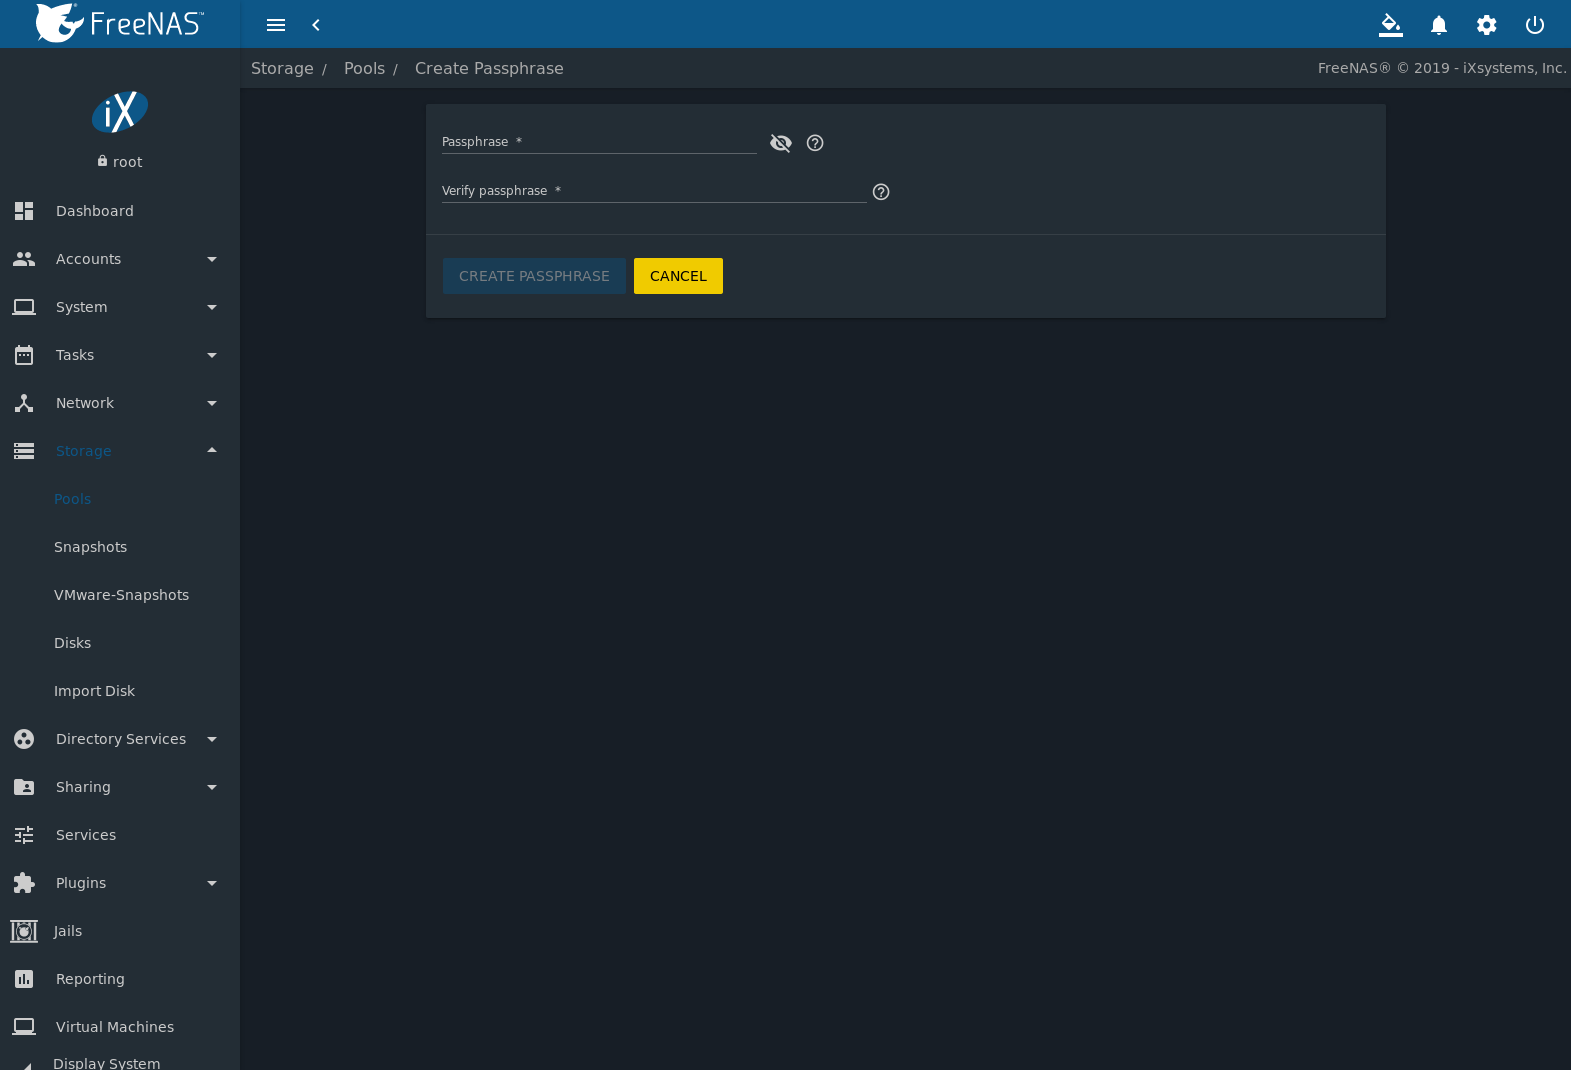
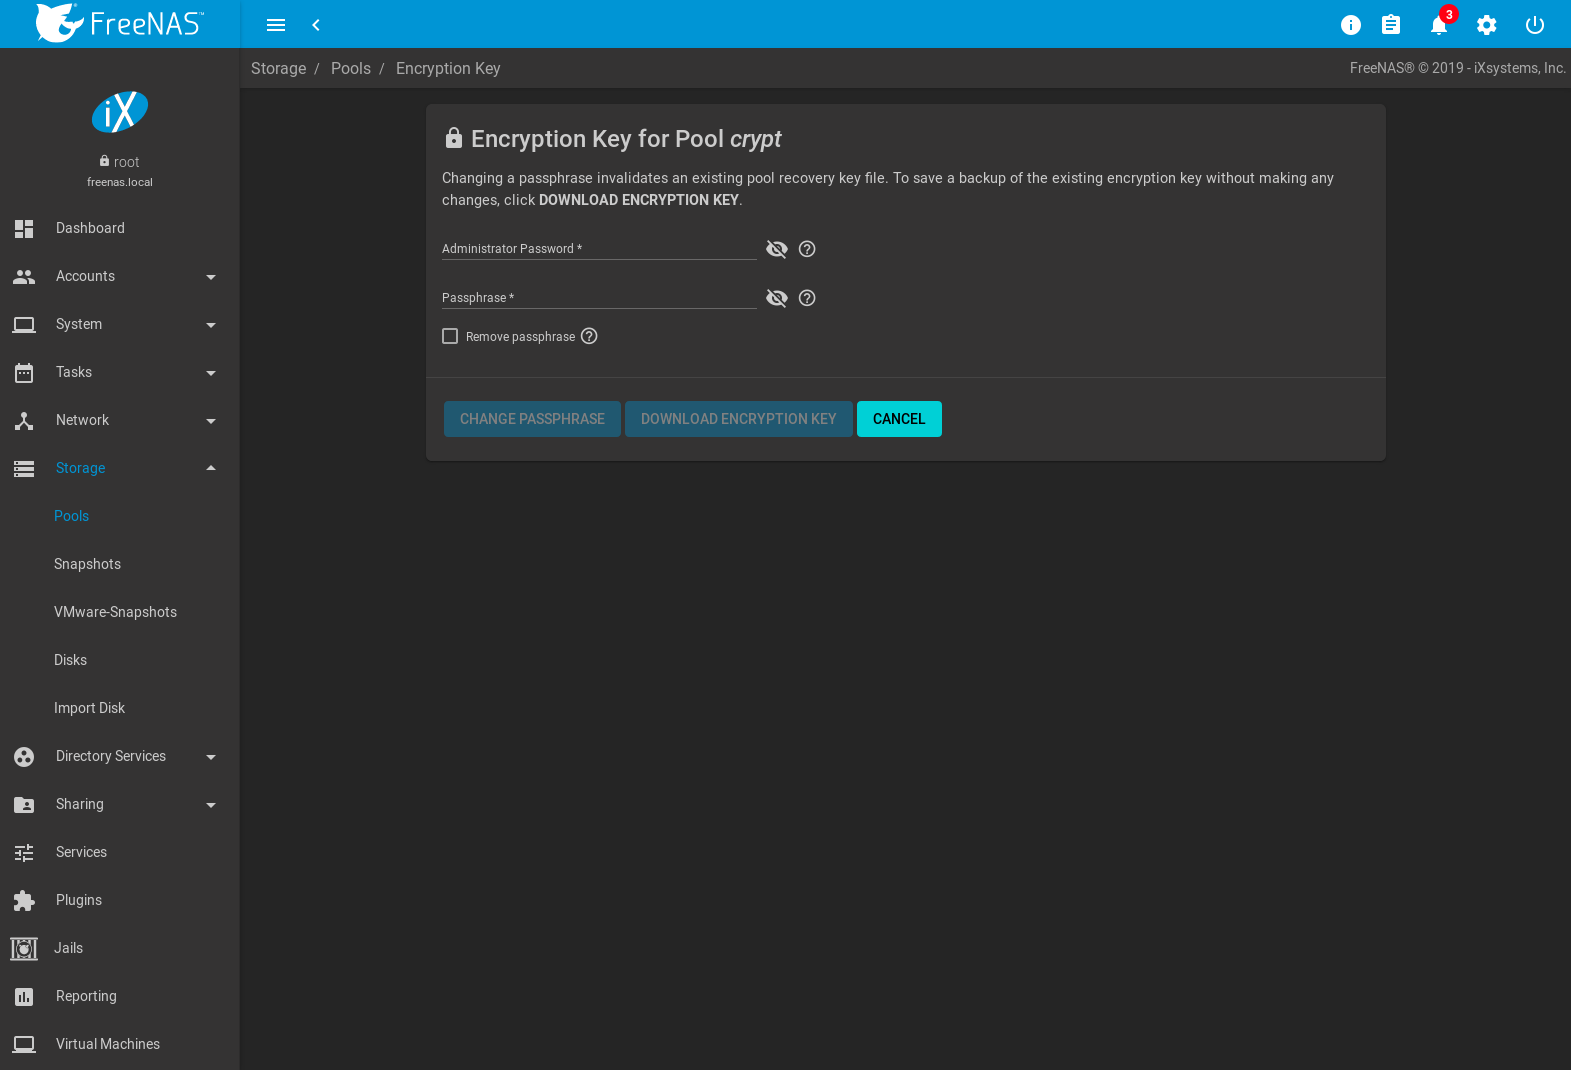
NAS-102558: Update encryption operations - Update Encrypt Operations labels and descriptive text to match UI changes. - Update related image. - HTML build testing: no issues.

Changed region(s): [[0.2495, 0.1234, 0.9045, 0.4318], [0.0, 0.0, 1.0, 0.0925], [0.0, 0.0925, 0.1248, 1.0]]

diff --git a/userguide/storage.rst b/userguide/storage.rst
@@ -456,11 +456,9 @@ These options are available:
 
 * :guilabel:`Lock`: Only appears after a passphrase is created. Locking
   a pool restricts data accessability in %brand% until the pool is
-  unlocked.
-
-  Selecting this action requires entering the passphrase. The pool
-  status changes to :literal:`LOCKED`, :guilabel:`Pool Operations` are
-  limited to *Export/Disconnect*, and |pool-lock| changes to
+  unlocked. Selecting this action requires entering the passphrase. The
+  pool status changes to :literal:`LOCKED`, :guilabel:`Pool Operations`
+  are limited to *Export/Disconnect*, and |pool-lock| changes to
   |pool-unlock|.
 
 * :guilabel:`Unlock`: Decrypt the pool by clicking |pool-unlock| and
@@ -473,52 +471,45 @@ These options are available:
   them. Deselecting services can prevent them from properly accessing
   the unlocked pool.
 
-* :guilabel:`Create Passphrase`: Add a passphrase to the encryption key.
-  Unlike a password, a passphrase can contain spaces and is typically a
-  series of words. A good passphrase is easy to remember but hard to
-  guess.
+* :guilabel:`Encryption Key/Passphrase`: Create or change the encryption
+  key passphrase and download a backup of the encryption key. Unlike a
+  password, a passphrase can contain spaces and is typically a series of
+  words. A good passphrase is easy to remember but hard to guess.
 
   .. _zfs_encrypt_passphrase_fig:
 
   .. figure:: images/storage-pools-encrypt-passphrase.png
 
-     Add a Passphrase to an Encrypted Pool
+     Encryption Key/Passphrase Options
 
 
-  Creating a passphrase changes the option to
-  :guilabel:`Change Passphrase`. The administrator password is also
-  required to change the passphrase. Setting
-  :guilabel:`Remove Passphrase` invalidates the current pool passphrase.
-  Creating or changing a passphrase invalidates previously downloaded
-  recovery key files for this pool.
+  The administrator password is required to for encryption key changes.
+  Setting :guilabel:`Remove Passphrase` invalidates the current pool
+  passphrase. Creating or changing a passphrase invalidates the pool
+  recovery key.
 
-* :guilabel:`Add Recovery Key`: Generate and download a new recovery key
-  file. The %brand% administrative password is required. Previously
-  downloaded recovery key files for the pool are invalidated.
+* :guilabel:`Recovery Key`: Generate and download a new recovery key
+  file or invalidate an existing recovery key. The %brand%
+  administrative password is required. Generating a new recovery key
+  file invalidates previously downloaded recovery key files for the pool.
 
-* :guilabel:`Delete Recovery Key`: Invalidate any previously downloaded
-  recovery key files for this pool.
-
-.. _reset encryption:
-
-* :guilabel:`Encryption Rekey`: This resets the encryption on the GELI
+  .. _reset encryption:
+* :guilabel:`Reset Keys`: This resets the encryption on the pool GELI
   master key and invalidates all encryption keys, recovery keys, and any
   passphrase for the pool. A dialog opens to save a backup of the new
-  encryption key. Create a new passphrase to enable locking the pool and
-  add a recovery key to replace any previously generated recovery key
-  files.
+  encryption key. There are also options to create a new passphrase and
+  download a new recovery key file for the pool. The administrator
+  password is required to reset pool encryption.
 
-  If a re-key fails on a multi-disk system, an alert is generated. **Do
-  not ignore this alert** as doing so may result in the loss of data.
+  If a key reset fails on a multi-disk system, an alert is generated.
+  **Do not ignore this alert** as doing so may result in the loss of
+  data.
 #ifdef truenas
 
-  .. note:: A re-key is not allowed if :ref:`Failover`
+  .. note:: A key reset is not allowed if :ref:`Failover`
      (High Availability) has been enabled and the standby |ctrlr-term|
      is down.
 #endif truenas
-
-* :guilabel:`Download Encrypt Key`: Opens a dialog to download a copy of
-  the encryption key.
 
 
 .. _Adding Cache or Log Devices:
